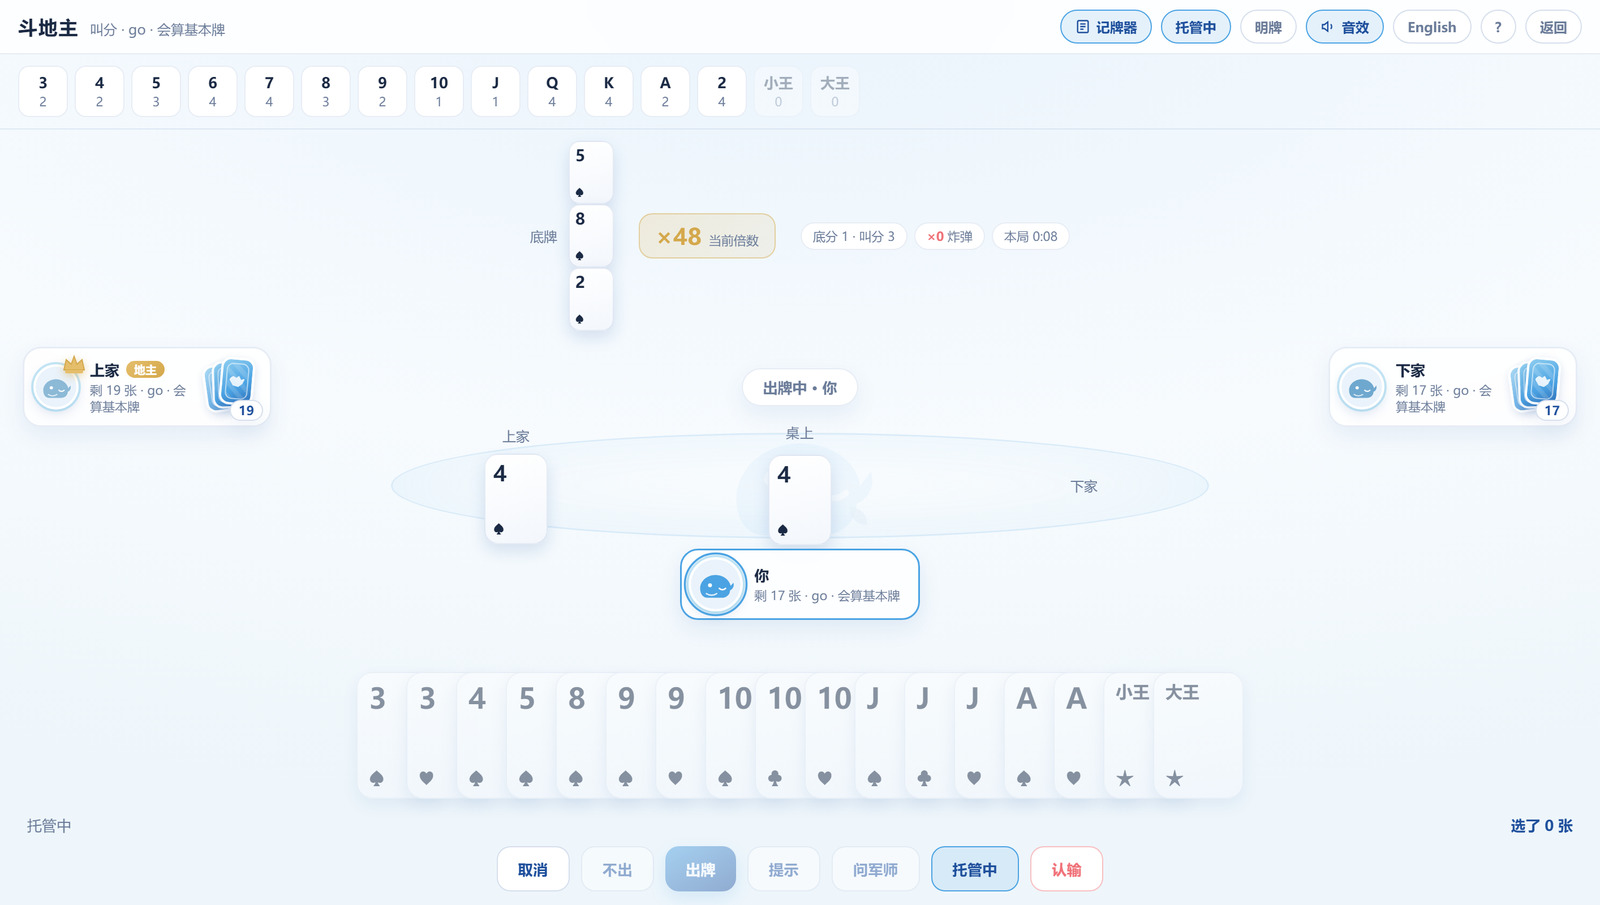
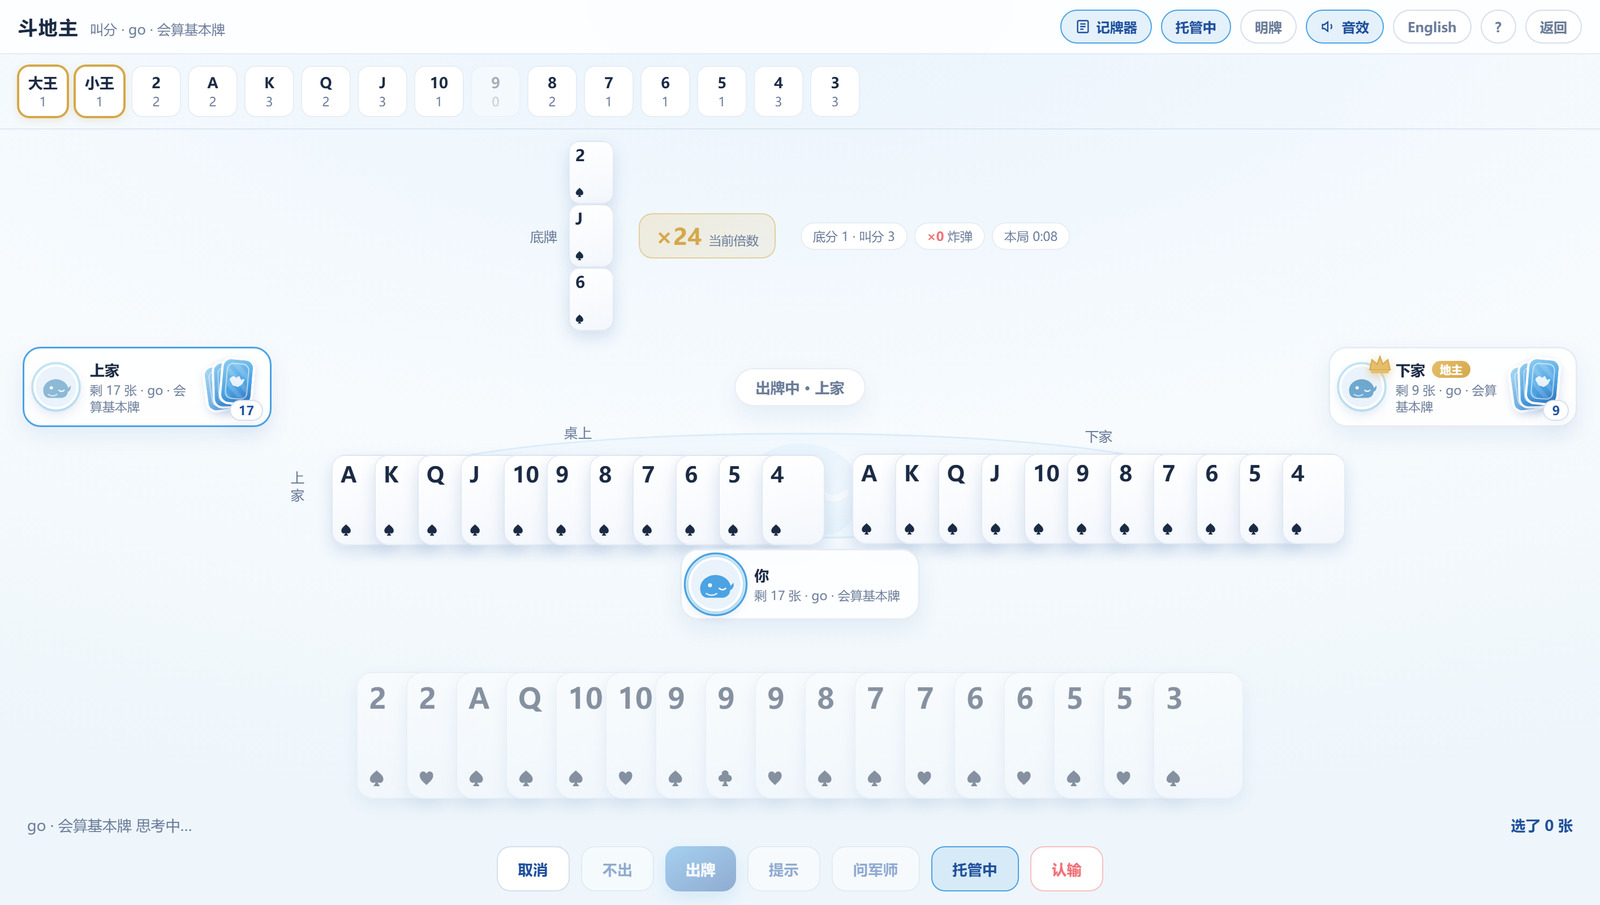
feat(ui): 手牌与记牌器改为从大到小排（大小王在最左，3 在最右）

diff --git a/plugin/dsh-doudizhu-game/client.js b/plugin/dsh-doudizhu-game/client.js
@@ -2250,7 +2250,7 @@ function cardsFromCounts(counts) {
       })
     }
   }
-  out.sort((a, b) => a.rank - b.rank || (a.suit < b.suit ? -1 : 1))
+  out.sort((a, b) => b.rank - a.rank || (a.suit < b.suit ? -1 : 1))
   return out
 }
 
@@ -2417,7 +2417,7 @@ function Seat(props) {
 function counterBar(st, T, open) {
   const mine = st.hands[0]
   const out = []
-  for (let i = 0; i < 15; i++) {
+  for (let i = 14; i >= 0; i--) {
     const rank = i + 3
     const totalCards = rank >= 16 ? 1 : 4
     const rest = totalCards - (mine[i] || 0) - (st.played[i] || 0)

diff --git a/plugin/dsh-doudizhu-game/src/ui.js b/plugin/dsh-doudizhu-game/src/ui.js
@@ -23,7 +23,7 @@ function cardsFromCounts(counts) {
       })
     }
   }
-  out.sort((a, b) => a.rank - b.rank || (a.suit < b.suit ? -1 : 1))
+  out.sort((a, b) => b.rank - a.rank || (a.suit < b.suit ? -1 : 1))
   return out
 }
 
@@ -190,7 +190,7 @@ function Seat(props) {
 function counterBar(st, T, open) {
   const mine = st.hands[0]
   const out = []
-  for (let i = 0; i < 15; i++) {
+  for (let i = 14; i >= 0; i--) {
     const rank = i + 3
     const totalCards = rank >= 16 ? 1 : 4
     const rest = totalCards - (mine[i] || 0) - (st.played[i] || 0)
